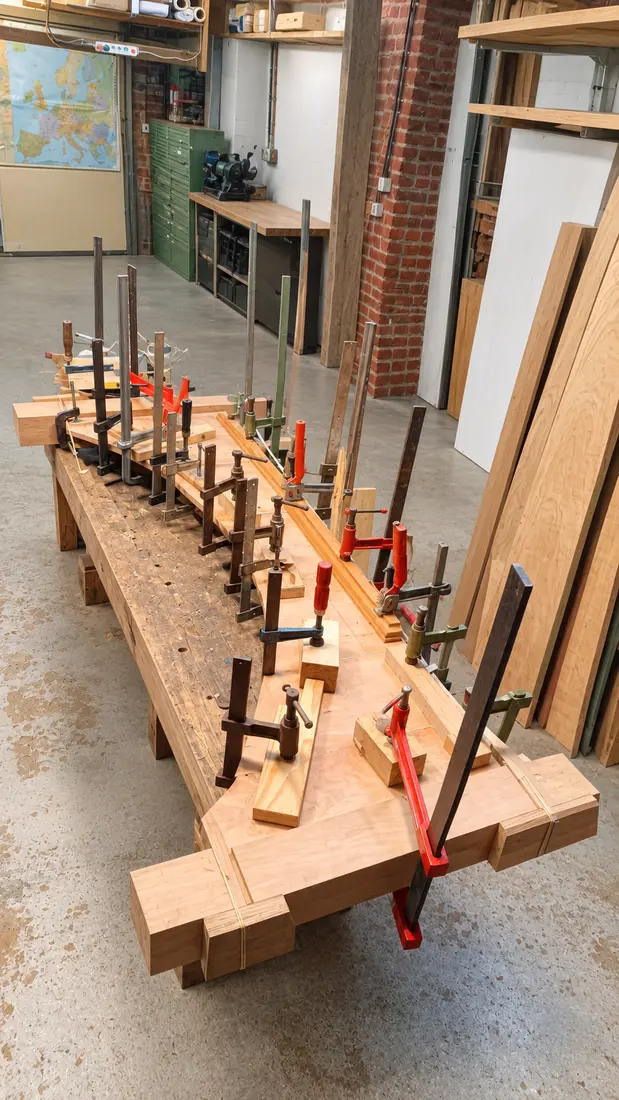
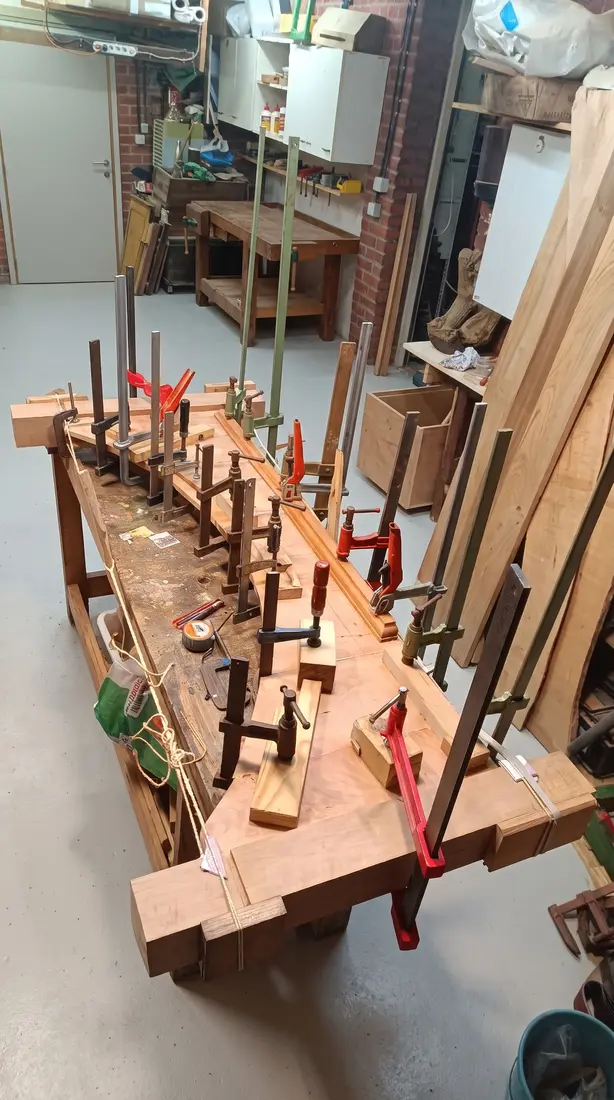
update website

diff --git a/index.html b/index.html
@@ -96,13 +96,14 @@ figure.fig figcaption{font:400 12px/1.5 var(--mono);color:var(--dim);margin-top:
 .strip figure{border:1px solid var(--line);border-radius:6px;overflow:hidden;background:#f0eeea}
 .strip img{aspect-ratio:1/1;width:100%;object-fit:cover}
 .strip figcaption{font:400 11px/1.3 var(--mono);color:var(--muted);background:var(--bg);padding:6px 7px;border-top:1px solid var(--line)}
-.photos{display:grid;grid-template-columns:repeat(3,1fr);gap:10px;margin-top:14px}
+.photos{display:grid;grid-template-columns:repeat(4,1fr);gap:10px;margin-top:14px}
 .photos figure{border:1px solid var(--line);border-radius:6px;overflow:hidden;background:#141414}
 .photos img{width:100%;height:220px;object-fit:cover}
 .photos .ct img{object-fit:contain;padding:10px}
 .photos .dark{background:#202630}
-.photos .wide{grid-column:1/-1}
-.photos .wide img{height:260px;padding:16px 24px}
+.final-big{margin-top:12px;border:1px solid var(--line);border-radius:6px;overflow:hidden;background:#f2f0ec}
+.final-big img{width:100%;max-height:560px;object-fit:contain}
+.final-big figcaption{font:400 11.5px/1.4 var(--mono);color:var(--muted);background:var(--bg);padding:7px 9px;border-top:1px solid var(--line)}
 .photos figcaption{font:400 11.5px/1.4 var(--mono);color:var(--muted);background:var(--bg);padding:7px 9px;border-top:1px solid var(--line)}
 
 /* about */
@@ -169,7 +170,6 @@ code{font:400 .88em var(--mono);background:var(--bg-2);border:1px solid var(--li
   .print-only{display:block!important}
   .no-print{display:none!important}
   .ceil-fig{margin:10px 0 0!important;padding:8px!important} .ceil-fig img{max-height:44mm;width:auto;margin:0 auto} .ceil-fig figcaption{margin-top:6px}
-  .photos .wide img{height:100px;padding:6px}
 }
 .print-only{display:none}
 
@@ -747,14 +747,17 @@ code{font:400 .88em var(--mono);background:var(--bg-2);border:1px solid var(--li
     <figure><img src="img/lit_a6.webp" alt="Final design" loading="lazy"><figcaption>final</figcaption></figure>
   </div>
 
+  <figure class="final-big"><img src="img/lit_final.webp" alt="Final design with curtains, SketchUp render" loading="lazy"><figcaption>final design, with curtains</figcaption></figure>
+
   <h2>Workshop and drawings</h2>
   <div class="photos">
-    <figure class="ct wide"><img src="img/frieze.webp" alt="Gilt-bronze frieze" loading="lazy"><figcaption>gilt-bronze frieze</figcaption></figure>
-    <figure><img src="img/glueup.webp" alt="Glue-up of a laminated rail" loading="lazy"><figcaption>glue-up, laminated rail</figcaption></figure>
+    <figure><img src="img/glueup.webp" alt="Glue-up of a laminated panel on the workbench" loading="lazy"><figcaption>glue-up, laminated panel</figcaption></figure>
     <figure><img src="img/pear1.webp" alt="Flamed pear board" loading="lazy"><figcaption>flamed pear, 40 years dried</figcaption></figure>
     <figure class="ct"><img src="img/headboard.webp" alt="Raw headboard with bronze caryatids" loading="lazy"><figcaption>headboard, before finishing</figcaption></figure>
+    <figure class="ct"><img src="img/frieze.webp" alt="Gilt-bronze frieze" loading="lazy"><figcaption>gilt-bronze frieze</figcaption></figure>
     <figure class="ct dark"><img src="img/lit_c1.webp" alt="AutoCAD side elevation" loading="lazy"><figcaption>autocad, side elevation</figcaption></figure>
     <figure class="ct dark"><img src="img/lit_c3.webp" alt="AutoCAD head elevation" loading="lazy"><figcaption>autocad, head elevation</figcaption></figure>
+    <figure class="ct dark"><img src="img/lit_c4.webp" alt="AutoCAD foot elevation" loading="lazy"><figcaption>autocad, foot elevation</figcaption></figure>
     <figure class="ct dark"><img src="img/lit_technique.webp" alt="AutoCAD construction details" loading="lazy"><figcaption>autocad, rail details</figcaption></figure>
   </div>
 
